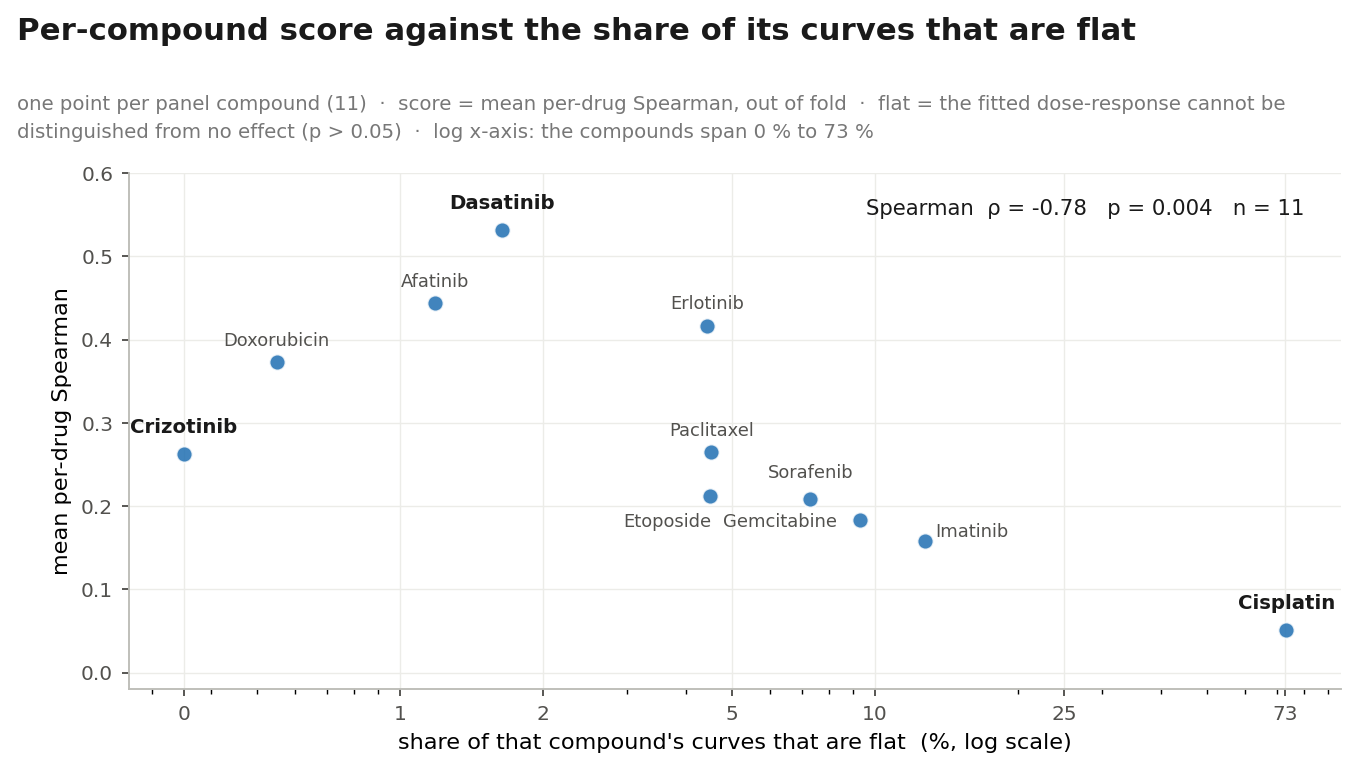
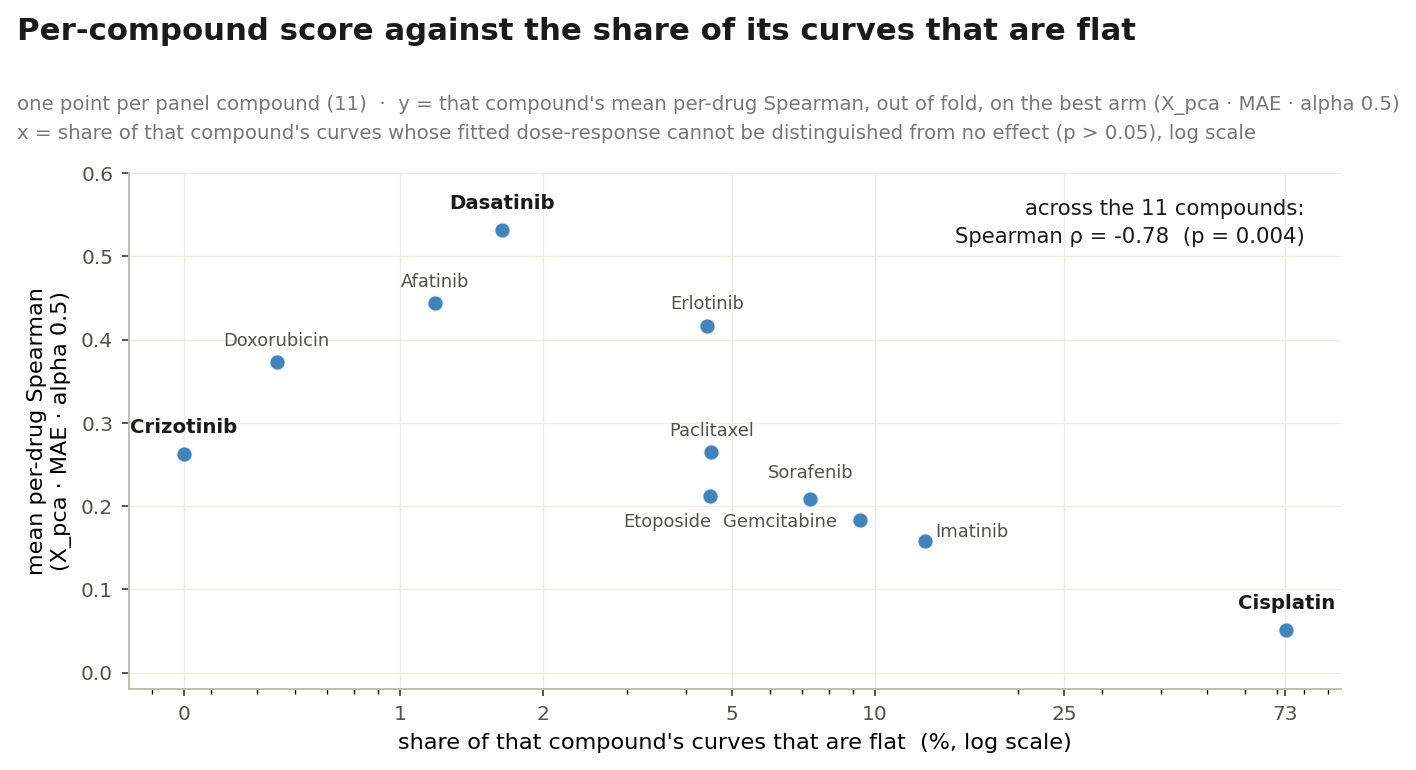
label_quality: name the arm, and say Spearman-of-Spearmans out loud
Selin: "which model/arm is this calculated on? ... also what is the -0.78
pearson referring to".

Both were unanswerable from the figure. The arm (X_pca, MAE, alpha 0.5 -- the
leaderboard's best row) was in the function docstring only, which breaks the
deck's own rule that no score is quoted without its arm. It is now on the
subtitle AND the y-axis label, so it travels with the figure wherever it is
pasted.

And the annotation read "Spearman rho = -0.78  p = 0.004  n = 11", which is easy
to read as a Pearson and gives no hint that it is a correlation OF correlations:
each point's y is itself a per-drug Spearman, and those eleven values are then
rank-correlated against the eleven flat-fractions. Now reads "across the 11
compounds: Spearman rho = -0.78 (p = 0.004)".

No number changed.

diff --git a/docs/make_figures.py b/docs/make_figures.py
@@ -1821,10 +1821,13 @@ def build_label_quality():
     fig.subplots_adjust(top=0.80, left=0.10, right=0.97, bottom=0.14)
     fig.suptitle("Per-compound score against the share of its curves that are flat",
                  x=0.02, ha="left", fontsize=13, fontweight="bold", color=INK, y=1.0)
+    # The arm is named on the figure, not only in this docstring: the deck's own rule is that no
+    # score is quoted without its arm, and "mean per-drug Spearman" alone names none.
     fig.text(0.02, 0.90,
-             f"one point per panel compound ({len(j)})  ·  score = mean per-drug Spearman, "
-             "out of fold  ·  flat = the fitted dose-response cannot be\ndistinguished from "
-             "no effect (p > 0.05)  ·  log x-axis: the compounds span 0 % to 73 %",
+             f"one point per panel compound ({len(j)})  ·  y = that compound's mean per-drug "
+             "Spearman, out of fold, on the best arm (X_pca · MAE · alpha 0.5)\n"
+             "x = share of that compound's curves whose fitted dose-response cannot be "
+             "distinguished from no effect (p > 0.05), log scale",
              ha="left", va="top", fontsize=8.4, color=GREY, linespacing=1.6)
 
     ax.scatter(np.clip(x, 0.35, None), j.rho, s=46, color=BLUE, alpha=0.85, zorder=3,
@@ -1844,11 +1847,15 @@ def build_label_quality():
     ax.set_xticks([0.35, 1, 2, 5, 10, 25, 73])
     ax.set_xticklabels(["0", "1", "2", "5", "10", "25", "73"])
     ax.set_xlabel("share of that compound's curves that are flat  (%, log scale)", fontsize=9.5)
-    ax.set_ylabel("mean per-drug Spearman", fontsize=9.5)
+    ax.set_ylabel("mean per-drug Spearman\n(X_pca · MAE · alpha 0.5)", fontsize=9.5)
     ax.set_ylim(-0.02, 0.60)
     # Read from the points that are drawn, so the annotation cannot disagree with the figure.
-    ax.text(0.97, 0.95, f"Spearman  ρ = {rho:+.2f}   p = {pval:.3f}   n = {len(j)}",
-            transform=ax.transAxes, ha="right", va="top", fontsize=9, color=INK)
+    # Spelled out because it is a correlation OF correlations: each point's y is itself a per-drug
+    # Spearman, and these eleven are then rank-correlated against the eleven flat-fractions. Written
+    # as "across the 11 compounds" so it cannot be read as a within-compound quantity.
+    ax.text(0.97, 0.95,
+            f"across the {len(j)} compounds:\nSpearman ρ = {rho:+.2f}  (p = {pval:.3f})",
+            transform=ax.transAxes, ha="right", va="top", fontsize=9, color=INK, linespacing=1.5)
     _tidy(ax, grid="both")
     ax.tick_params(labelsize=8.5)
 
